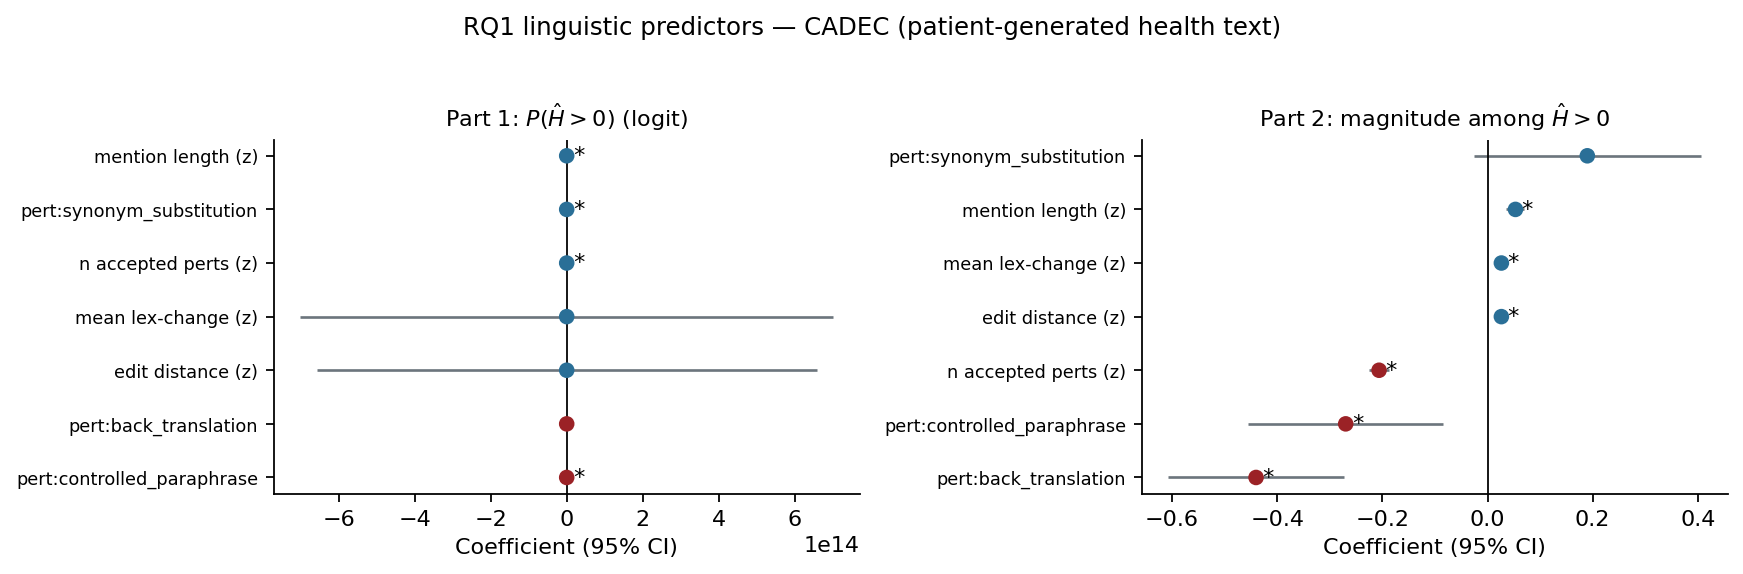
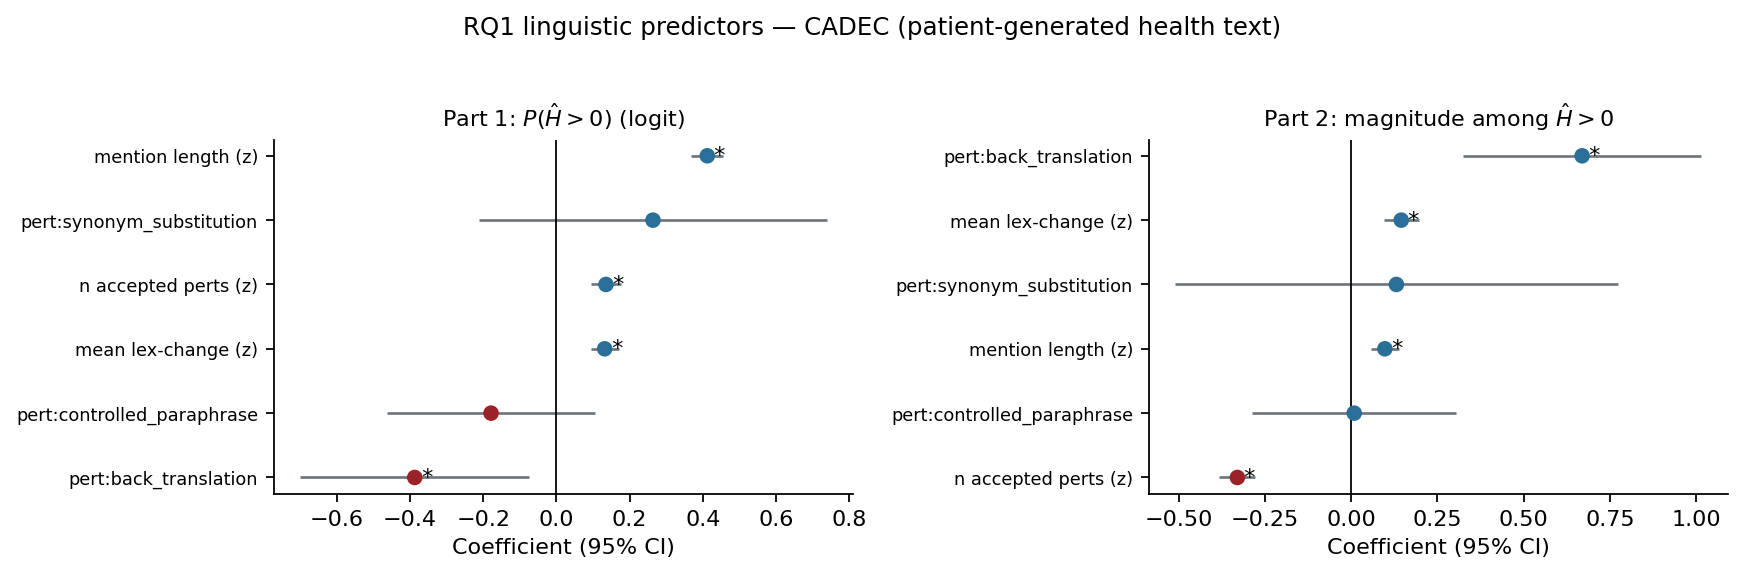
Drop aliased predictors: RQ1's logit half was failing, not finding nothing
lexical_change_magnitude is a literal copy of g5_edit_distance on CADEC
(27,814/27,814 cells identical). Entering both made the design rank-deficient;
the logit raised Singular matrix, fit_logit_hurdle swallowed it, and the
verdict printed 'no significant positive linguistic effects' for a model that
had never been fitted. The magnitude half reported the same effect twice at
half its true coefficient (+0.072 twice, vs +0.145 once).

With the alias dropped the logit fits and two predictors reverse sign between
the hurdle's parts: more accepted perturbations and more back-translation both
raise P(H>0) while lowering H given H>0.

diff --git a/docs/BUG_AUDIT.md b/docs/BUG_AUDIT.md
@@ -1080,3 +1080,77 @@ the real property unmeasured.
 Nothing. The assertion is not wrong, it is weak, and it is retained. Its message should be
 reworded so it does not claim predictiveness, and any future "signal X works" gate should assert
 a discrimination statistic (AUROC with a CI that excludes 0.5) rather than a dispersion one.
+
+---
+
+# Aliased predictors silently killed half of RQ1 (2026-09-14)
+
+**Class:** aliased-column. A column that is a *copy* of another, entered as though it were an
+independent measurement. Distinct from count-vs-identity: nothing here is compared, so no
+comparison can be wrong. The design matrix is simply rank-deficient and nobody is told.
+
+## The alias
+
+`notebooks/01_perturbations/CADEC_perturbations.ipynb`, cell writing the perturbation table:
+
+```python
+if "lexical_change_magnitude" not in df_out.columns and "g5_edit_distance" in df_out.columns:
+    df_out["lexical_change_magnitude"] = df_out["g5_edit_distance"]
+```
+
+`lexical_change_magnitude` is therefore a literal copy of `g5_edit_distance` on CADEC.
+Measured on `rq3_cadec_validated_perturbations_full.csv`, accepted rows only:
+**27,814 of 27,814 cells identical (100.0000%), max absolute difference 0.0.**
+
+## The consumer
+
+`notebooks/05_analysis/RQ1_linguistic_predictors_hurdle.ipynb` builds `mean_edit_distance`
+from one and `mean_lexical_change_magnitude` from the other, then `_predictor_cols()` returns
+both. Two perfectly collinear continuous predictors entered every fit.
+
+## What it cost
+
+**The binary half of the hurdle model did not exist.** With both columns in the design the
+logit fit raised `Singular matrix` and was caught by the `except Exception` in
+`fit_logit_hurdle()`, which records the error and returns. The notebook then printed
+`Binary method: None` and `(no significant positive linguistic effects)` under
+`[raise P(entropy>0)]` -- a *null result where no model had been fitted at all*. RQ1 is a
+hurdle model; half of it was reported as empty rather than as failed.
+
+The magnitude half did fit, and reported **one effect twice**:
+
+```
++ edit distance (z):   coef=+0.072 [+0.047,+0.098] p=2.24e-08
++ mean lex-change (z): coef=+0.072 [+0.047,+0.098] p=2.24e-08
+```
+
+Identical coefficient, identical SE, identical p. A reader counts two corroborating linguistic
+predictors. There is one. The coefficient was also **halved** by the collinear split: after
+the fix the single predictor carries **+0.145**, not +0.072.
+
+## After the fix (drop any predictor identical to an earlier one)
+
+Logit fits. CADEC, remapped data, 37,695 rows, nonzero fraction 0.573:
+
+| effect | logit P(H>0) | magnitude given H>0 |
+|---|---|---|
+| mention length (z)   | **+0.412** [+0.368,+0.456] p=8.2e-75 | +0.097 [+0.057,+0.138] p=2.2e-06 |
+| mean lex-change (z)  | **+0.132** [+0.093,+0.170] p=1.7e-11 | **+0.145** [+0.094,+0.196] p=2.2e-08 |
+| n accepted perts (z) | **+0.135** [+0.094,+0.177] p=2.4e-10 | **-0.330** [-0.382,-0.278] p=2.2e-35 |
+| pert: back_translation | **-0.387** [-0.700,-0.074] p=0.016 | **+0.669** [+0.323,+1.015] p=1.5e-04 |
+
+Two of the four reverse sign between the hurdle's parts. `n_accepted_perts` and
+back-translation share both make entropy more likely to be non-zero while making it *smaller*
+once non-zero. That is exactly the structure a hurdle model exists to expose, and none of it
+was visible while the logit was silently failing.
+
+## What was changed
+
+`_predictor_cols()` now drops any core predictor byte-identical to one already selected and
+prints which and to what. The alias in `CADEC_perturbations.ipynb` is left alone: it is the
+source of the duplicate but it is also how `lexical_change_magnitude` comes to exist at all,
+and regenerating the perturbation table is out of scope before the cutoff.
+
+**Open, not fixed:** `fit_logit_hurdle()` catches every exception and reports the part as
+absent. A fit that fails and a fit that finds nothing print differently but read the same in
+the verdict block. Failure should be loud.
